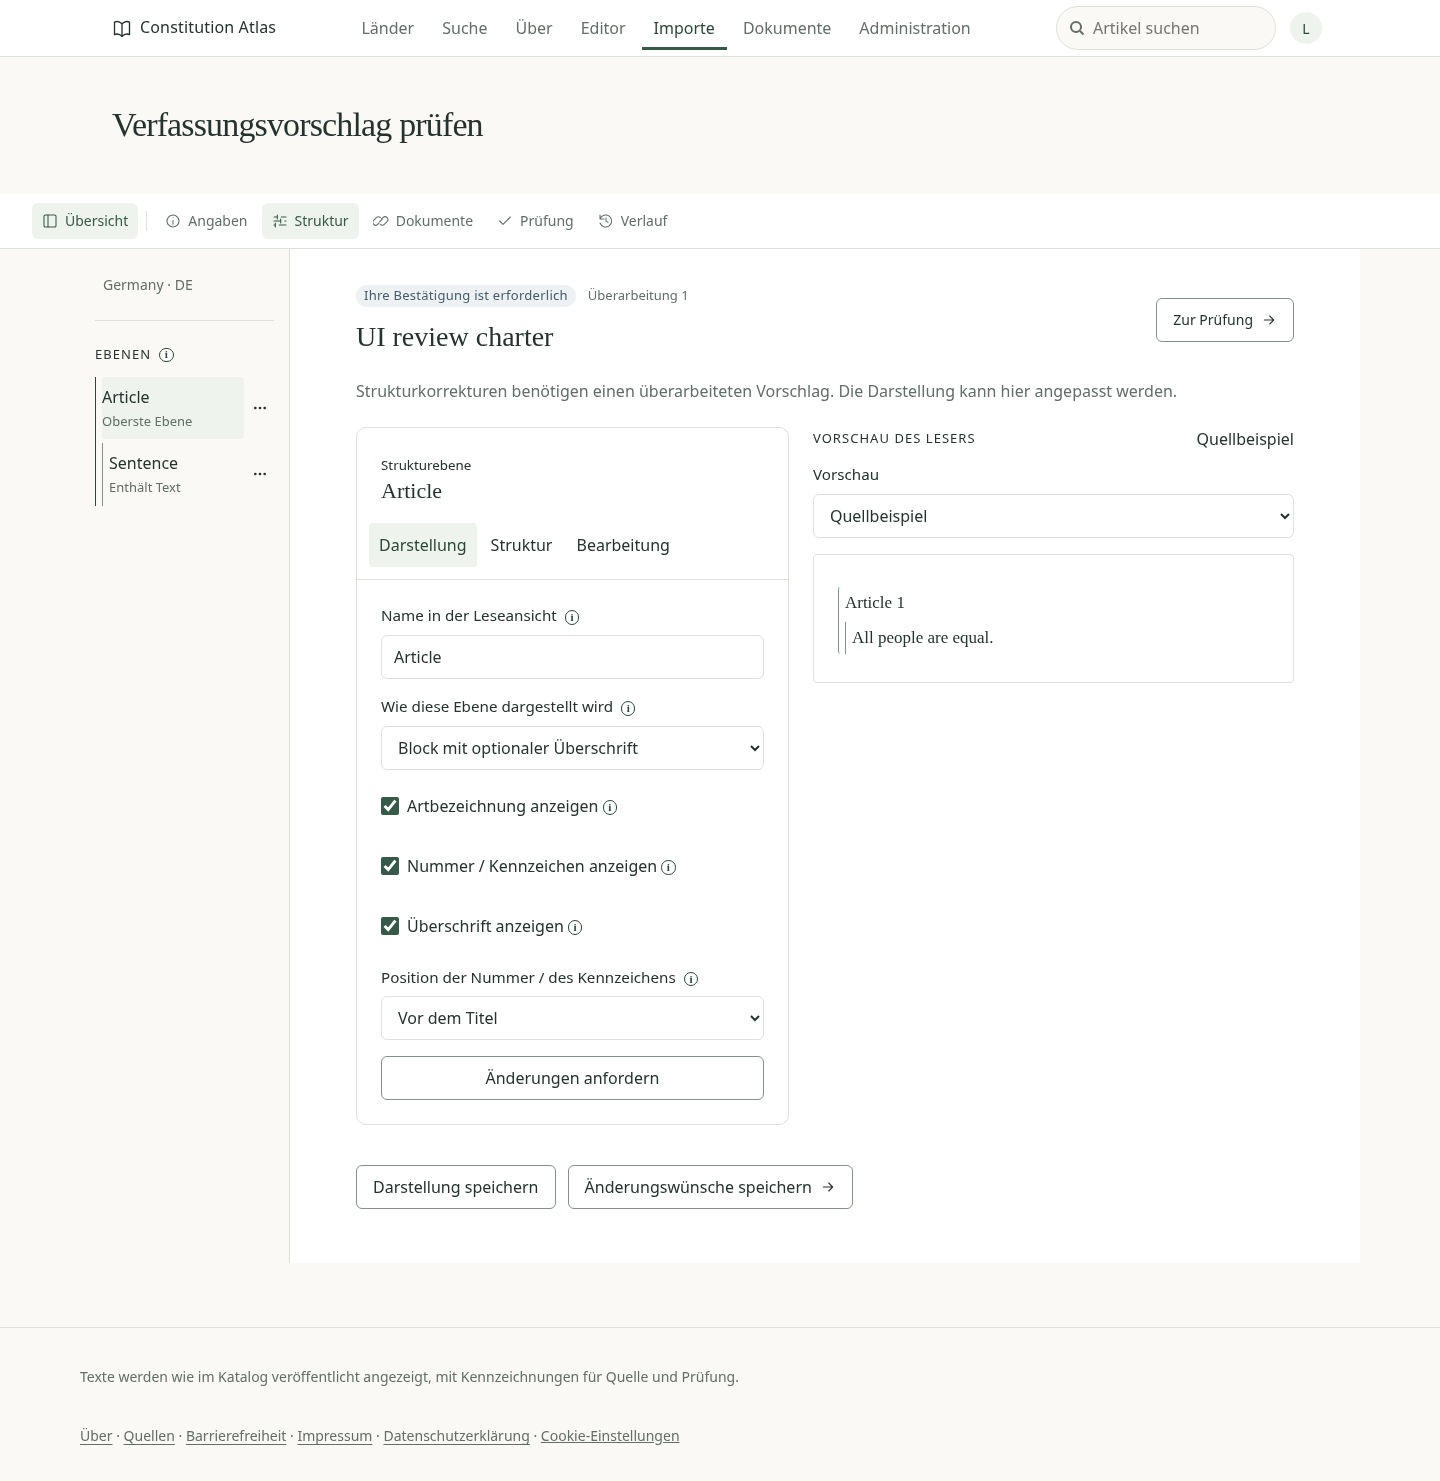
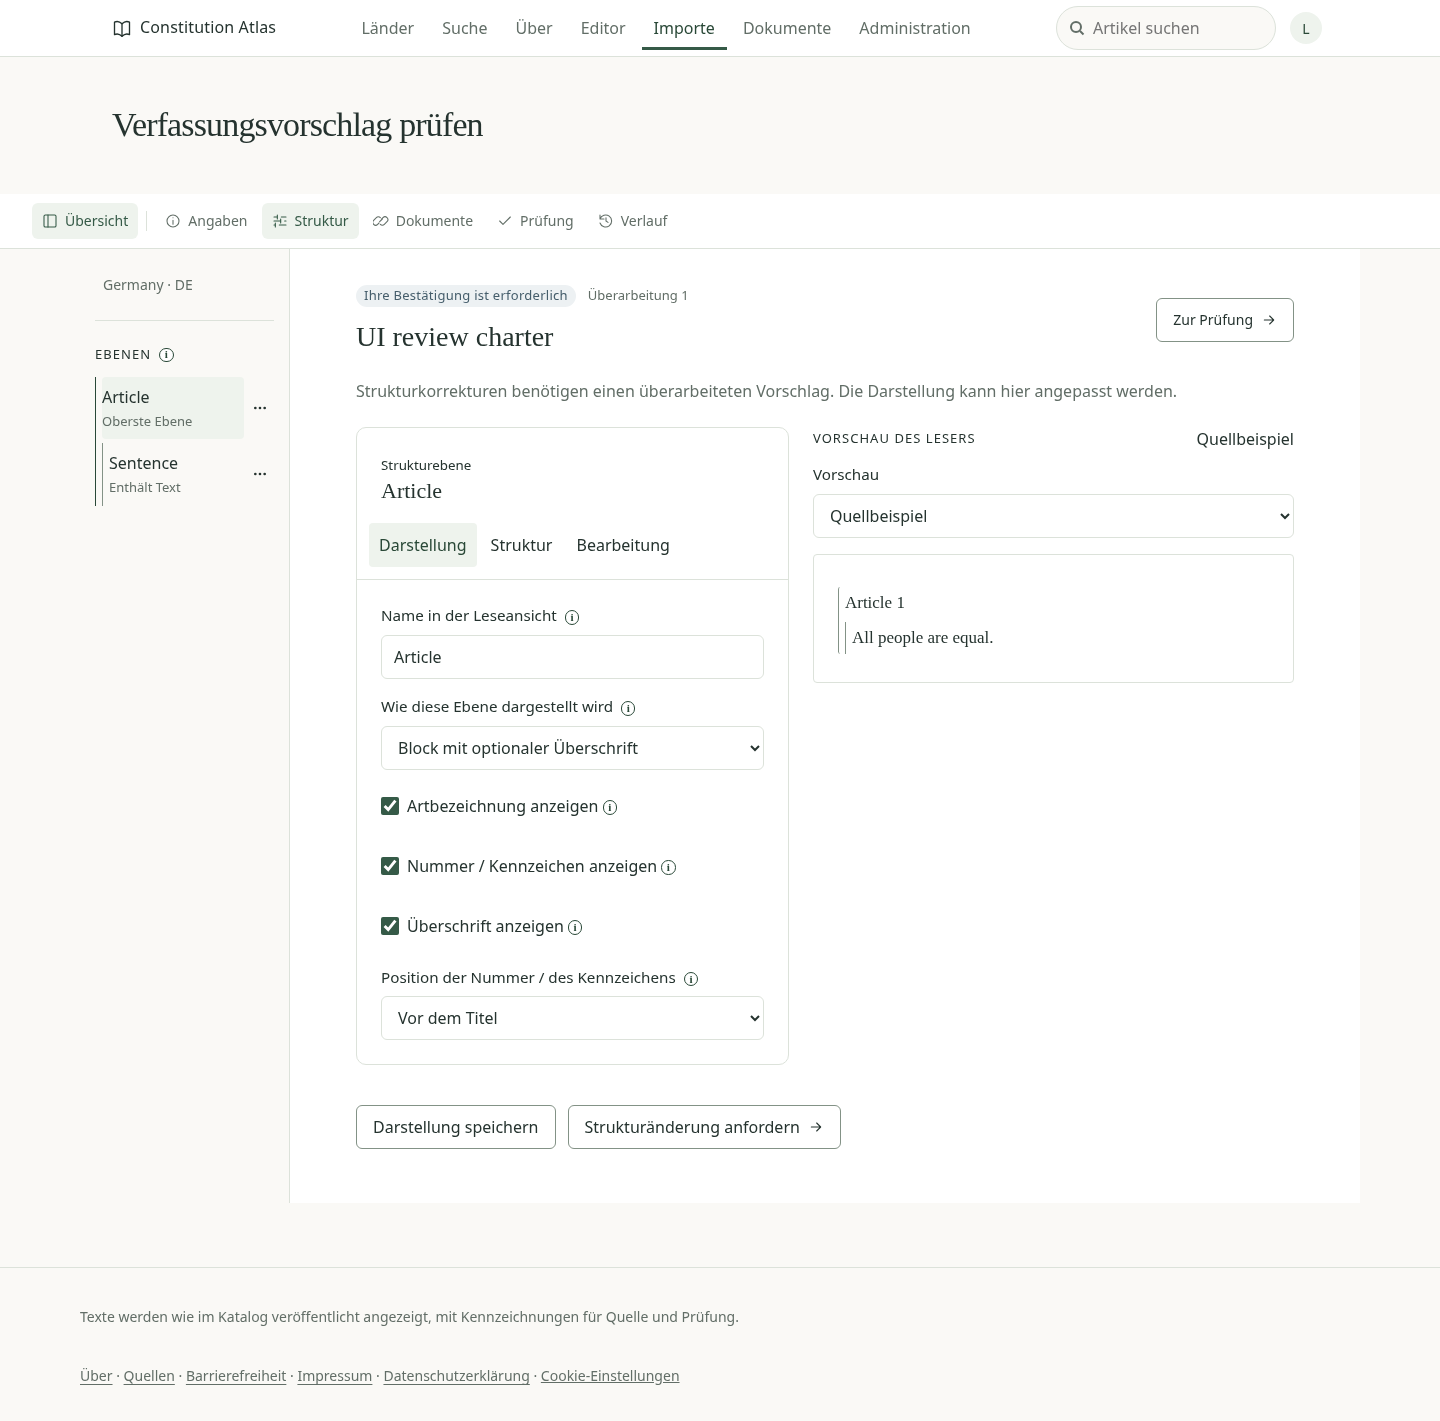
Clarify proposal correction actions and retain browser navigation assertions

diff --git a/apps/gateway-web/e2e/setup-review.spec.ts b/apps/gateway-web/e2e/setup-review.spec.ts
@@ -33,9 +33,10 @@ for (const { language, width } of [{ language: 'en', width: 1440 }, { language: 
     await expect(page.locator('[data-preview-kind="article"]').first()).toContainText('Art. 1');
     await page.getByRole('button', { name: de ? 'Darstellung speichern' : 'Save display settings' }).click();
     await expect.poll(async () => (await (await request.get(`${mockOrigin}${proposalPath}`)).json()).revision).toBe(2);
+    await expect(page.locator('input[name=revision]')).toHaveValue('2');
     await page.reload();
     await expect(page.locator('[data-preview-kind="article"]').first()).toContainText('Art. 1');
-    await page.getByRole('button', { name: de ? 'Änderungen anfordern' : 'Request changes', exact: true }).click();
+    await page.getByRole('button', { name: de ? 'Strukturänderung anfordern' : 'Request structural changes', exact: true }).click();
     await page.getByLabel(de ? 'Gewünschte Änderungen' : 'Requested changes', { exact: true }).fill('Bitte eine Satzebene einfügen und den Wortlaut bewahren.');
     await page.getByRole('button', { name: de ? 'Änderungswünsche speichern' : 'Record requested changes' }).click();
     await expect(page.getByText(de ? 'Wartet auf einen überarbeiteten Vorschlag' : 'Waiting for a revised proposal', { exact: true }).filter({ visible: true })).toBeVisible();

diff --git a/apps/gateway-web/app/admin/import/setup/SetupProposalReview.tsx b/apps/gateway-web/app/admin/import/setup/SetupProposalReview.tsx
@@ -161,12 +161,16 @@ export function SetupProposalReview({
             <StructurePanel id="identity" active={view}>
               <Stack gap="card">
                 {identity}
-                <p className="muted">{t(m.proposalHelp)}</p>
+                <p className="muted">
+                  {t(editable ? m.proposalHelp : m.proposalReadOnly)}
+                </p>
               </Stack>
             </StructurePanel>
             <StructurePanel id="structure" active={view}>
               <Stack gap="card">
-                <p className="muted">{t(m.proposalHelp)}</p>
+                <p className="muted">
+                  {t(editable ? m.proposalHelp : m.proposalReadOnly)}
+                </p>
                 {content}
                 {editable ? (
                   <div className={styles.actions}>
@@ -174,7 +178,7 @@ export function SetupProposalReview({
                       {t(ui.setupReview.save)}
                     </Button>
                     <Button type="button" onClick={requestChanges}>
-                      {t(ui.setupReview.feedbackButton)}
+                      {t(m.requestStructure)}
                       <ReaderIcon name="right" />
                     </Button>
                   </div>

diff --git a/apps/gateway-web/e2e/structure-workspace.spec.ts b/apps/gateway-web/e2e/structure-workspace.spec.ts
@@ -88,7 +88,7 @@ for (const locale of ['en', 'de']) test(`creation and import share the responsiv
   await page.keyboard.press('Escape');
   await request.post(`${mock}/__sprint59_content`);
   await page.goto(`/admin/import/setup/${proposal}`);
-  await expect(page.getByRole('button', { name: de ? 'Änderungen anfordern' : 'Request changes', exact: true })).toBeVisible();
+  await expect(page.getByRole('button', { name: de ? 'Strukturänderung anfordern' : 'Request structural changes', exact: true })).toBeVisible();
   await page.getByRole('region', { name: 'Article ' + (de ? 'Struktur' : 'Structure'), exact: true }).getByRole('button', { name: de ? 'Struktur' : 'Structure', exact: true }).click();
   await expect(page.getByRole('checkbox', { name: de ? 'Kann auf der obersten Ebene stehen' : 'May appear at the top level', exact: true })).toBeDisabled();
   await page.getByRole('button', { name: de ? 'Änderungen anfordern' : 'Request changes', exact: true }).click();

diff --git a/apps/gateway-web/e2e/full/mcp-import.spec.ts b/apps/gateway-web/e2e/full/mcp-import.spec.ts
@@ -280,7 +280,7 @@ test('MCP waits while an administrator requests and confirms an exact setup revi
     await expect(page.locator('input[name="revision"]')).toHaveValue('2');
     await page.reload();
     await expect(page.locator('[data-preview-kind="article"]:visible')).toContainText('Art. 1');
-    await page.getByRole('button', { name: 'Request changes', exact: true }).click();
+    await page.getByRole('button', { name: 'Request structural changes', exact: true }).click();
     await page.getByLabel('Requested changes', { exact: true }).fill('Add sentence units without changing the original German wording.');
     await page.getByRole('button', { name: 'Record requested changes' }).click();
     await expect(page.getByText('Waiting for a revised proposal', { exact: true }).filter({ visible: true })).toBeVisible();

diff --git a/apps/gateway-web/e2e/full/roles.spec.ts b/apps/gateway-web/e2e/full/roles.spec.ts
@@ -45,8 +45,9 @@ for (const story of roles) {
     await expect(page.getByRole('button', { name: 'Edit this constitution' })).toHaveCount(story.canEdit ? 1 : 0);
     await page.goto('/admin/constitutions');
     if (story.admin) {
-      await expect(page.getByRole('heading', { name: 'Constitutions', exact: true })).toBeVisible();
-      await expect(page.getByText('Atlas Test Charter')).toBeVisible();
+      await expect(page.getByRole('heading', { name: 'Create a constitution', exact: true })).toBeVisible();
+      await page.locator('summary').filter({ hasText: /^Existing constitutions$/ }).click();
+      await expect(page.getByRole('link', { name: 'Atlas Test Charter', exact: true })).toBeVisible();
     } else {
       await expect(page.getByText('Administrator role required.')).toBeVisible();
     }

diff --git a/apps/gateway-web/lib/constitution-workspace-messages.ts b/apps/gateway-web/lib/constitution-workspace-messages.ts
@@ -47,6 +47,14 @@ export const constitutionWorkspaceUi = {
     en: "Structural corrections need a revised proposal. Display settings can be adjusted here.",
     de: "Strukturkorrekturen benötigen einen überarbeiteten Vorschlag. Die Darstellung kann hier angepasst werden.",
   },
+  requestStructure: {
+    en: "Request structural changes",
+    de: "Strukturänderung anfordern",
+  },
+  proposalReadOnly: {
+    en: "This proposal's reviewed structure and display are read-only.",
+    de: "Die geprüfte Struktur und Darstellung dieses Vorschlags sind schreibgeschützt.",
+  },
   migration: {
     en: "Direct saving is blocked. This change requires a reviewed successor migration.",
     de: "Direktes Speichern ist gesperrt. Diese Änderung benötigt eine geprüfte Nachfolgemigration.",

diff --git a/apps/gateway-web/app/admin/constitutions/StructureWorkspaceTemplate.tsx b/apps/gateway-web/app/admin/constitutions/StructureWorkspaceTemplate.tsx
@@ -331,7 +331,7 @@ export function OutlineWorkspace({
                 update={update}
                 removeLayer={structural ? remove : undefined}
               />
-              {!structural && onRequestChanges ? (
+              {!structural && onRequestChanges && section !== "display" ? (
                 <Button type="button" onClick={onRequestChanges}>
                   {t(copy.request)}
                 </Button>
